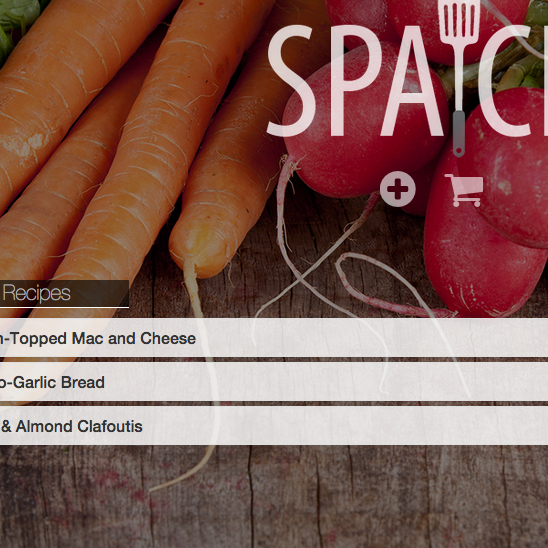
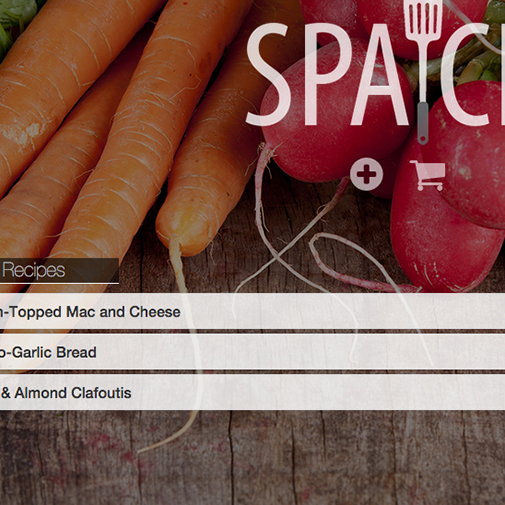
polishing up portfolio

diff --git a/index.html b/index.html
@@ -13,9 +13,8 @@
 	<div class="cd-fixed-bg">  
 	   	<nav>
 		   	<ul>
-			   	<li id="home">Home</li>
-			   	<li id="workNav">Work</li>
-			   	<li>Contact</li>
+			   	<li><a href="#workNav">Work</a></li>
+			   	<li><a href="#contactNav">Contact</a></li>
 		   	</ul>
 	   	</nav>
 	    <header class="intro">
@@ -27,32 +26,29 @@
 	    </header>
 	</div>
 	<main id="workDiv" class="cd-fixed-bg cd-bg-1 recent-work">
-		<div class="row">
+		<div class="row" id="workNav">
 			<div class="column large-6 small-12 content-column" id="recent-work-h2">
 				<h2>Recent Work</h2>
 				<ul>
 					<li>
-						<a href="#"><h3>&raquo; Spatch</h3></a>
+						<a href="http://lauraandskip.com" target="_blank"><h3>&raquo; Laura & Skip</h3></a>
+						<p>A wedding site for The Lettered Olive.</p>
+					</li>
+					<li>
+						<a href="https://github.com/margaretgodowns/zenCity" target="_blank"><h3>&raquo; Zen City</h3></a>
+						<p>A master schedule for all things yoga-related in Charleston. Currently down for reworking.</p>
+					</li>
+					<li>
+						<a href="http://ctfigueroa.github.io/lamp/#/"><h3>&raquo; Spatch</h3></a>
 						<p>A recipe application that streamlines your grocery list.</p>
 					</li>
 					<li>
-						<a href="#"><h3>&raquo; Stage</h3></a>
+						<a href="http://margaretgodowns.github.io/rageCake/" target="_blank"><h3>&raquo; Stage</h3></a>
 						<p>Local live music listings, all in one spot.</p>
 					</li>
 					<li>
-						<a href="#"><h3>&raquo; Powell Peralta</h3></a>
+						<a href="http://margaretgodowns.herokuapp.com/"><h3>&raquo; Powell Peralta</h3></a>
 						<p>An ode to the celebrated skateboard brand.</p>
-					</li>
-				</ul>
-				<h2>Education</h2>
-				<ul>
-					<li>
-						<h3>&raquo; Wofford College</h3>
-						<p>B.A. English Literature, 2013</p>
-					</li>
-					<li>
-						<h3>&raquo; The Iron Yard</h3>
-						<p>Front End Development, 2014</p>
 					</li>
 				</ul>
 			</div>
@@ -80,7 +76,7 @@
 		</div>
 	</main>	
 	<div class="cd-fixed-bg cd-bg-2">
-		<div class="contact-section">
+		<div class="contact-section" id="contactNav">
 			<a href="mailto:margaretgodowns@gmail.com"><h4>email</h4></a>
 			<a href="https://www.linkedin.com/in/margaretgodowns"><h4>linked in</h4></a>
 			<a href="https://github.com/margaretgodowns"><h4>github</h4></a>

diff --git a/index2.html b/index2.html
@@ -1,0 +1,56 @@
+<!doctype html>
+<html class="no-js" lang="en">
+  <head>
+    <meta charset="utf-8" />
+    <meta name="viewport" content="width=device-width, initial-scale=1.0" />
+    <title>Margaret Godowns</title>
+    <link rel="stylesheet" href="stylesheets/app.css" />
+    <link href='https://fonts.googleapis.com/css?family=Cabin' rel='stylesheet' type='text/css'>
+    <link href='https://fonts.googleapis.com/css?family=Cabin|Old+Standard+TT' rel='stylesheet' type='text/css'>
+    <script src="bower_components/modernizr/modernizr.js"></script>
+  </head>
+  <body>
+	<div class="cd-fixed-bg">  
+	   	<nav>
+		   	<ul>
+			   	<li id="home">Home</li>
+			   	<li id="workNav">Work</li>
+			   	<li>Contact</li>
+		   	</ul>
+	   	</nav>
+	    <header class="intro">
+		   <h1>Margaret Godowns</h1>
+		   <div>
+			   <p>Web Developer &raquo; Amateur Gardener &raquo; Podcast Enthusiast</p>
+			   <p>Charleston, SC</p>
+		   </div>   
+	    </header>
+	</div>
+	<main id="workDiv" class="cd-fixed-bg cd-bg-1 recent-work">
+		<div class="row">
+    		<div class="columns large-3 small-12">
+        		<img src="images/laura-and-skip.jpg">
+    		</div>
+    		<div class="columns large-3 small-12">
+        		<img src="images/peralta.jpg">
+    		</div>
+    		<div class="columns large-3 small-12">
+        		<img src="images/spatch.jpg">
+    		</div>
+    		<div class="columns large-3 small-12">
+        		<img src="images/stage.jpg">
+    		</div>
+		</div>
+	</main>	
+	<div class="cd-fixed-bg cd-bg-2">
+		<div class="contact-section">
+			<a href="mailto:margaretgodowns@gmail.com"><h4>email</h4></a>
+			<a href="https://www.linkedin.com/in/margaretgodowns"><h4>linked in</h4></a>
+			<a href="https://github.com/margaretgodowns"><h4>github</h4></a>
+		</div>
+	</div>	
+    <script src="bower_components/jquery/dist/jquery.min.js"></script>
+    <script src="bower_components/foundation/js/foundation.min.js"></script>
+    <script src="js/app.js"></script>
+  </body>
+</html>

diff --git a/stylesheets/app.css b/stylesheets/app.css
@@ -6345,6 +6345,9 @@ body {
     background-image: url(../images/background-4.jpg); }
     body .cd-fixed-bg nav {
       text-align: center; }
+      body .cd-fixed-bg nav a {
+        text-decoration: none;
+        color: white; }
       body .cd-fixed-bg nav ul {
         font-family: "Old Standard TT", serif;
         list-style-type: none;
@@ -6364,27 +6367,33 @@ body {
       body .cd-fixed-bg .intro p {
         text-transform: uppercase;
         margin: 0px; }
-  body .cd-fixed-bg.cd-bg-1 {
-    background: white; }
-    body .cd-fixed-bg.cd-bg-1 .content-column {
+  body .cd-bg-1 {
+    background: white;
+    height: initial;
+    min-height: 100%;
+    background-size: cover;
+    background-attachment: fixed;
+    background-repeat: no-repeat;
+    background-position: center center; }
+    body .cd-bg-1 .content-column {
       margin-top: 40px;
       height: 100%; }
-    body .cd-fixed-bg.cd-bg-1 #recent-work-h2 {
+    body .cd-bg-1 #recent-work-h2 {
       border-right: 1px solid #CAAD96; }
-    body .cd-fixed-bg.cd-bg-1 h2 {
+    body .cd-bg-1 h2 {
       font-family: "Old Standard TT", serif;
       color: #CAAD96;
       text-align: center; }
-    body .cd-fixed-bg.cd-bg-1 ul {
+    body .cd-bg-1 ul {
       list-style-type: none; }
-    body .cd-fixed-bg.cd-bg-1 a h3:hover {
+    body .cd-bg-1 a h3:hover {
       background-color: #CAAD96;
       color: white;
       font-style: italic; }
-    body .cd-fixed-bg.cd-bg-1 h3 {
+    body .cd-bg-1 h3 {
       font-family: "Cabin", sans-serif;
       color: #CAAD96; }
-    body .cd-fixed-bg.cd-bg-1 p {
+    body .cd-bg-1 p {
       font-family: "Old Standard TT", serif;
       color: #CAAD96; }
 

diff --git a/scss/app.scss b/scss/app.scss
@@ -30,6 +30,11 @@ body {
 		nav {
 		
 			text-align: center;
+			
+			a {
+    			text-decoration: none;
+    			color: white;
+			}
 	
 			ul {
 			
@@ -73,9 +78,15 @@ body {
 		}
 	}
 	
-	.cd-fixed-bg.cd-bg-1 {
+	.cd-bg-1 {
 		
 		background: white;
+		height: initial;
+		min-height: 100%;
+		background-size: cover;
+		background-attachment: fixed;
+		background-repeat: no-repeat;
+		background-position: center center;
 				
 			.content-column {
 				
